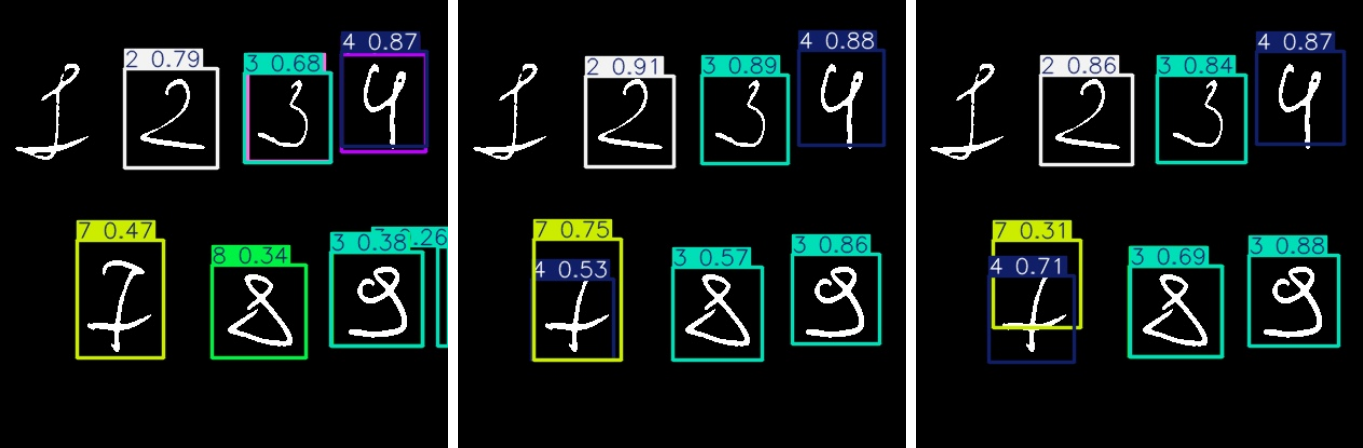
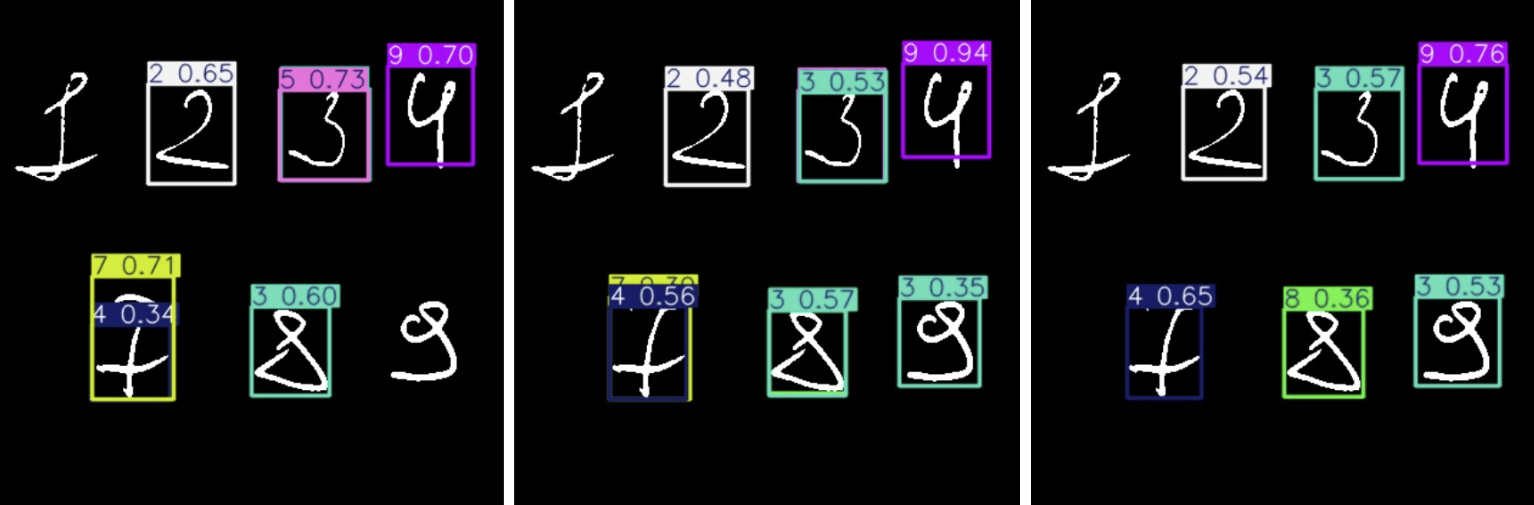
[script update] added data from TouchingDigits dataset

diff --git a/dataset-generator.py b/dataset-generator.py
@@ -6,6 +6,7 @@ from tensorflow.keras.datasets import mnist
 import random
 from tqdm import tqdm
 import warnings
+from collections import defaultdict
 
 # Отключаем все предупреждения
 warnings.filterwarnings('ignore')
@@ -91,7 +92,6 @@ def add_noise_and_lines(image, boxes, probability=0.5):
         
         # Add random artifacts (shapes and letters) near digits but not intersecting
         num_artifacts = random.randint(3, 8)
-        letters = ['A', 'B', 'C', 'D', 'E', 'F', 'H', 'K', 'M', 'N', 'P', 'R', 'S', 'T', 'X', 'Y', 'Z']
         
         for _ in range(num_artifacts):
             # Choose position near digits but not intersecting
@@ -125,43 +125,6 @@ def add_noise_and_lines(image, boxes, probability=0.5):
                 end_y = art_y + random.randint(-20, 20)
                 cv2.line(noise_layer, (art_x, art_y), (end_x, end_y), (255, 255, 255), 
                         thickness=random.randint(1, 3))
-            else:  # letter
-                letter = random.choice(letters)
-                font = cv2.FONT_HERSHEY_SIMPLEX
-                font_scale = random.uniform(0.5, 1.0)
-                thickness = random.randint(1, 2)
-                cv2.putText(noise_layer, letter, (art_x, art_y), font, font_scale, (255, 255, 255), thickness)
-        
-        # Add horizontal lines that might intersect with digits
-        num_lines = random.randint(1, 3)
-        for _ in range(num_lines):
-            # Decide line type: touching, slightly intersecting, or below
-            line_type = random.choice(['touching', 'intersecting', 'below'])
-            
-            # Calculate line position
-            if line_type == 'touching':
-                y_pos = int(max_y)
-            elif line_type == 'intersecting':
-                y_pos = int(max_y - random.randint(3, 8))
-            else:  # below
-                y_pos = int(max_y + random.randint(5, 15))
-            
-            # Calculate line length and position
-            line_start_x = max(0, min_x - random.randint(10, 30))
-            line_end_x = min(image.shape[1], max_x + random.randint(10, 30))
-            
-            # Add some waviness to the line
-            num_points = random.randint(3, 6)
-            points = []
-            for i in range(num_points):
-                x = line_start_x + (line_end_x - line_start_x) * i / (num_points - 1)
-                y = y_pos + random.randint(-2, 2)
-                points.append((int(x), int(y)))
-            
-            # Draw wavy line
-            for i in range(len(points) - 1):
-                cv2.line(noise_layer, points[i], points[i + 1], (255, 255, 255), 
-                        thickness=random.randint(2, 4))
     
     # Combine the noise layer with the original image (full intensity)
     return cv2.add(image, noise_layer)
@@ -201,7 +164,55 @@ def is_position_valid(current_box, placed_boxes, max_iou=0.1):
     
     return True
 
-def generate_multi_digit_image(digits, labels, target_size=416, min_digits=4, max_digits=8):
+def add_salt_and_pepper(image, prob=0.01):
+    """Add salt and pepper noise to image"""
+    noise = np.zeros(image.shape, np.uint8)
+    # Salt
+    salt = np.random.random(image.shape[:2]) < prob
+    noise[salt] = [255, 255, 255]
+    # Pepper
+    pepper = np.random.random(image.shape[:2]) < prob
+    noise[pepper] = [0, 0, 0]
+    return cv2.add(image, noise)
+
+class DigitSelector:
+    def __init__(self, digits, labels):
+        self.digits = digits
+        self.labels = labels
+        self.usage_count = defaultdict(int)
+        self.class_indices = defaultdict(list)
+        
+        # Создаем индексы для каждого класса
+        for idx, label in enumerate(labels):
+            self.class_indices[label].append(idx)
+    
+    def get_digit(self, class_id=None):
+        if class_id is not None:
+            # Если указан класс, выбираем из него
+            available_indices = [idx for idx in self.class_indices[class_id] 
+                               if self.usage_count[idx] < 20]  # Максимум 20 использований
+            if not available_indices:
+                # Если все изображения класса использованы максимальное количество раз,
+                # сбрасываем счетчики для этого класса
+                for idx in self.class_indices[class_id]:
+                    self.usage_count[idx] = 0
+                available_indices = self.class_indices[class_id]
+        else:
+            # Если класс не указан, выбираем из всех
+            available_indices = [idx for idx in range(len(self.digits)) 
+                               if self.usage_count[idx] < 20]
+            if not available_indices:
+                # Если все изображения использованы максимальное количество раз,
+                # сбрасываем все счетчики
+                self.usage_count.clear()
+                available_indices = list(range(len(self.digits)))
+        
+        # Выбираем индекс с минимальным количеством использований
+        idx = min(available_indices, key=lambda x: self.usage_count[x])
+        self.usage_count[idx] += 1
+        return self.digits[idx], self.labels[idx]
+
+def generate_multi_digit_image(digit_selector, target_size=416, min_digits=4, max_digits=8):
     """Generate image with multiple digits with specified constraints"""
     image = np.zeros((target_size, target_size), dtype=np.uint8)
     boxes = []  # [x1, y1, x2, y2, class_id]
@@ -219,16 +230,19 @@ def generate_multi_digit_image(digits, labels, target_size=416, min_digits=4, ma
     digit_info = []
     total_width = 0
     for _ in range(num_digits):
-        idx = random.randint(0, len(digits) - 1)
-        digit = digits[idx]
+        digit, label = digit_selector.get_digit()
         aspect_ratio = digit.shape[1] / digit.shape[0]
         width = int(base_height * aspect_ratio)
-        digit_info.append((width, base_height, idx))
+        digit_info.append((width, base_height, digit, label))
         total_width += width
     
     # Add spacing between digits
     spacing = int(base_height * 0.2)  # 20% of height for spacing
     total_width += spacing * (num_digits - 1)
+    
+    # Проверяем, поместится ли вся группа цифр
+    if total_width > target_size:
+        return generate_multi_digit_image(digit_selector, target_size, min_digits, max_digits)
     
     # Calculate starting position based on layout
     margin = int(target_size * 0.1)  # 10% margin
@@ -239,6 +253,10 @@ def generate_multi_digit_image(digits, labels, target_size=416, min_digits=4, ma
     else:  # right
         start_x = target_size - total_width - margin
     
+    # Проверяем, не выходит ли начальная позиция за пределы
+    if start_x < 0 or start_x + total_width > target_size:
+        return generate_multi_digit_image(digit_selector, target_size, min_digits, max_digits)
+    
     # Base Y position - keep all digits at roughly same height
     base_y = (target_size - base_height) // 2
     max_y_variation = 5  # Reduced vertical variation
@@ -246,14 +264,14 @@ def generate_multi_digit_image(digits, labels, target_size=416, min_digits=4, ma
     current_x = start_x
     placed_boxes = []  # Keep track of placed boxes for overlap checking
     
-    for i, (width, height, idx) in enumerate(digit_info):
+    for i, (width, height, digit, label) in enumerate(digit_info):
         # Add very small random vertical variation
         y_offset = random.randint(-max_y_variation, max_y_variation)
         y = base_y + y_offset
         
-        # Ensure coordinates are within image bounds
-        current_x = max(0, min(target_size - width, current_x))
-        y = max(0, min(target_size - height, y))
+        # Проверяем, поместится ли цифра целиком
+        if current_x + width > target_size or y + height > target_size:
+            continue
         
         # Calculate current box
         current_box = [current_x, y, current_x + width, y + height]
@@ -267,6 +285,11 @@ def generate_multi_digit_image(digits, labels, target_size=416, min_digits=4, ma
                 prev_width = digit_info[i-1][0]
                 overlap_amount = int(prev_width * overlap_percent)
                 test_x = current_x - overlap_amount
+                
+                # Проверяем, не выйдет ли цифра за левый край при наложении
+                if test_x < 0:
+                    continue
+                    
                 test_box = [test_x, y, test_x + width, y + height]
                 
                 if is_position_valid(test_box, placed_boxes):
@@ -274,75 +297,38 @@ def generate_multi_digit_image(digits, labels, target_size=416, min_digits=4, ma
                     current_box = test_box
                     break
             else:
-                # If no valid overlap found, keep original position
                 should_overlap = False
         
-        # Verify final position is valid
-        if not is_position_valid(current_box, placed_boxes):
-            # If position is invalid, try to adjust slightly
-            for offset in range(1, 6):  # Try up to 5 pixels right
-                test_box = [current_x + offset, y, current_x + offset + width, y + height]
-                if is_position_valid(test_box, placed_boxes):
-                    current_x += offset
-                    current_box = test_box
-                    break
-            else:
-                # If still invalid, skip this digit
-                continue
-        
-        digit = digits[idx]
-        label = labels[idx]
-        
+        # Verify final position is valid and цифра помещается целиком
+        if not is_position_valid(current_box, placed_boxes) or \
+           current_box[0] < 0 or current_box[2] > target_size or \
+           current_box[1] < 0 or current_box[3] > target_size:
+            continue
+            
         # Resize digit
         digit_resized = cv2.resize(digit, (width, height))
         
-        try:
-            # Get the region where we'll place the digit
-            y_end = min(y + height, target_size)
-            x_end = min(current_x + width, target_size)
-            region = image[y:y_end, current_x:x_end]
-            
-            # Ensure digit_resized is cropped to match region size
-            digit_crop = digit_resized[:y_end-y, :x_end-current_x]
-            mask = digit_crop > 0
-            
-            if should_overlap:
-                # Only modify non-zero pixels in overlap region
-                overlap_width = overlap_amount
-                overlap_region = region[:, :overlap_width]
-                overlap_mask = mask[:, :overlap_width]
-                overlap_digit = digit_crop[:, :overlap_width]
-                
-                # Keep maximum value for overlapping pixels
-                overlap_region[overlap_mask] = np.maximum(
-                    overlap_region[overlap_mask],
-                    overlap_digit[overlap_mask]
-                )
-                
-                # Place non-overlapping part normally
-                non_overlap_region = region[:, overlap_width:]
-                non_overlap_mask = mask[:, overlap_width:]
-                non_overlap_digit = digit_crop[:, overlap_width:]
-                non_overlap_region[non_overlap_mask] = non_overlap_digit[non_overlap_mask]
-            else:
-                region[mask] = digit_crop[mask]
-            
-            # Add box with class
-            boxes.append([current_x, y, x_end, y_end, label])
-            placed_boxes.append([current_x, y, x_end, y_end])
-            
-        except ValueError:
-            continue
+        # Place digit
+        image[y:y+height, current_x:current_x+width] = digit_resized
+        
+        # Add box with class
+        boxes.append([current_x, y, current_x + width, y + height, label])
+        placed_boxes.append([current_x, y, current_x + width, y + height])
         
         # Move to next position
         current_x += width + spacing
     
-    if not boxes:  # If no digits were placed successfully
-        return generate_multi_digit_image(digits, labels, target_size, min_digits, max_digits)
+    # Если не удалось разместить достаточно цифр, пробуем заново
+    if len(boxes) < min_digits:
+        return generate_multi_digit_image(digit_selector, target_size, min_digits, max_digits)
     
     # Add noise and lines
     image = cv2.cvtColor(image, cv2.COLOR_GRAY2BGR)
     image = add_noise_and_lines(image, boxes)
+    
+    # Добавляем salt & pepper шум в 20% случаев
+    if random.random() < 0.2:
+        image = add_salt_and_pepper(image, prob=random.uniform(0.05, 0.068))
     
     # Apply Otsu's binarization
     image = apply_otsu_binarization(image)
@@ -371,7 +357,7 @@ def convert_to_yolo_format(boxes, image_width, image_height):
 
 def main():
     # Create output directories
-    output_dir = Path("dataset_yolo_v3")
+    output_dir = Path("dataset_yolo_v4")
     images_dir = output_dir / "images"
     labels_dir = output_dir / "labels"
     
@@ -391,12 +377,15 @@ def main():
     digits = np.concatenate([x_train, x_test])
     labels = np.concatenate([y_train, y_test])
     
-    # Generate dataset - увеличиваем количество изображений
-    num_images = 200  # Генерируем 500,000 изображений
+    # Create digit selector
+    digit_selector = DigitSelector(digits, labels)
+    
+    # Generate dataset
+    num_images = 20000  # Генерируем 50,000 изображений
     print(f"Generating {num_images} images...")
     
     for i in tqdm(range(num_images)):
-        image, boxes = generate_multi_digit_image(digits, labels)
+        image, boxes = generate_multi_digit_image(digit_selector)
         if not boxes:  # If no digits were placed successfully
             continue  # Skip this image and try again
         

diff --git a/README.md b/README.md
@@ -12,7 +12,11 @@ To tackle this problem, I have chosen to start with the YOLO (You Only Look Once
 
 ### Dataset Generation
 
-To train the model, I created a script that generates a custom dataset by combining handwritten digit images from the MNIST dataset. The dataset consists of 500,000 images, each containing multiple digits placed in varied positions to simulate real-world scenarios where digits appear in different locations and orientations.
+To train the model, I created a script that generates a custom dataset by combining handwritten digit images from the MNIST dataset and a new dataset called [Touching Digits Dataset](https://web.inf.ufpr.br/vri/databases/touching-digits/). The MNIST dataset consists of 500,000 images, each containing multiple digits placed in varied positions to simulate real-world scenarios. The Touching Digits dataset, comprising 240,000 images, includes handwritten digits that may overlap or touch, adding complexity to the detection task.
+
+Below is an example from the Touching Digits dataset:
+
+![Touching Digits Example](examples/TouchingDigits.png)
 
 #### Dataset Updates
 
@@ -24,7 +28,7 @@ Below is an example of an image with Salt and Pepper noise applied:
 
 ![Salt and Pepper Noise Example](examples/saltnpepper.jpg)
 
-##### Data Augmentation
+#### Data Augmentation
 
 To improve model generalization, I applied specific data augmentations during dataset generation:
 - **Scale**: Adjusted the size of digits to simulate variations in digit size.
@@ -32,19 +36,28 @@ To improve model generalization, I applied specific data augmentations during da
 
 Other augmentations (e.g., rotation, shear) were disabled, as they were found to negatively impact digit recognition performance.
 
-#### Example Image
+### Example Image
 
-Below is an example of a generated image from the dataset, showing multiple handwritten digits with added background noise:
+Below is an updated example of a generated image from the combined dataset, showing multiple handwritten digits with added background noise:
 
 ![Example Image](examples/example.jpg)
 
+From experiments conducted, it is evident that the model struggles to accurately detect handwritten digits. Specifically:
+- The model consistently fails to detect the digit "1".
+- There is frequent confusion between digits, with the digit "4" often misclassified as "9", and the digit "9" mistaken for "3".
+- The model has increasingly confused the digit "7" with "4", which may indicate overfitting due to the large dataset size.
+
 ### Results
 
-Results are not satisfying, the model trained on 500,000 images badly detect hand-written numbers from my test set:
+The model trained on the combined dataset (500,000 MNIST images + 240,000 Touching Digits images) performs poorly on the test set, as shown below:
 
-![Example Image](examples/results.png)
+![Results Image](examples/results.png)
+
+The poor performance suggests potential overfitting, likely due to the large volume of training data (740,000 images in total).
 
 ## Next Steps
 
-- Decrease YOLO dataset t 200,000 images with added noise and selected augmentations.
+- Reduce the dataset size to 20,000–40,000 images to mitigate overfitting and improve model generalization.
+- Retrain the YOLO model on the smaller dataset with added noise and selected augmentations.
 - Evaluate the model's performance in detecting and classifying multiple digits under noisy conditions.
+- Experiment with other object detection models (e.g., Faster R-CNN, SSD) using the reduced dataset to compare results.
